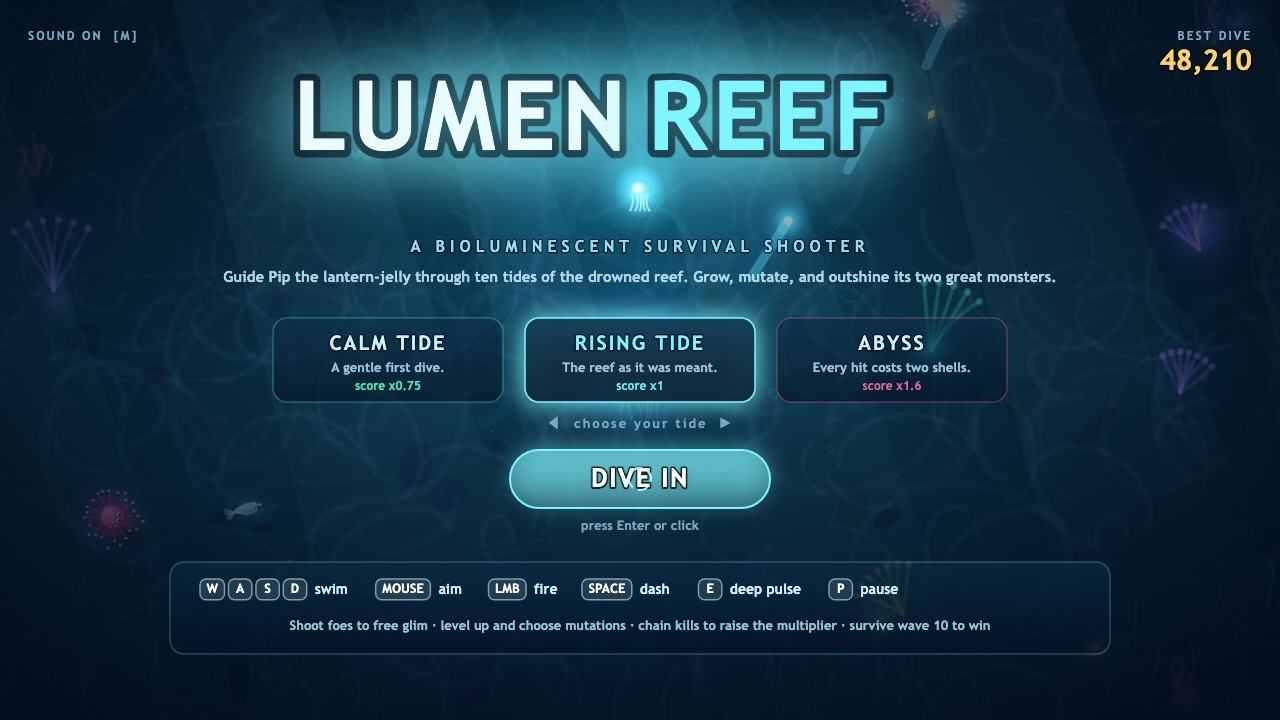
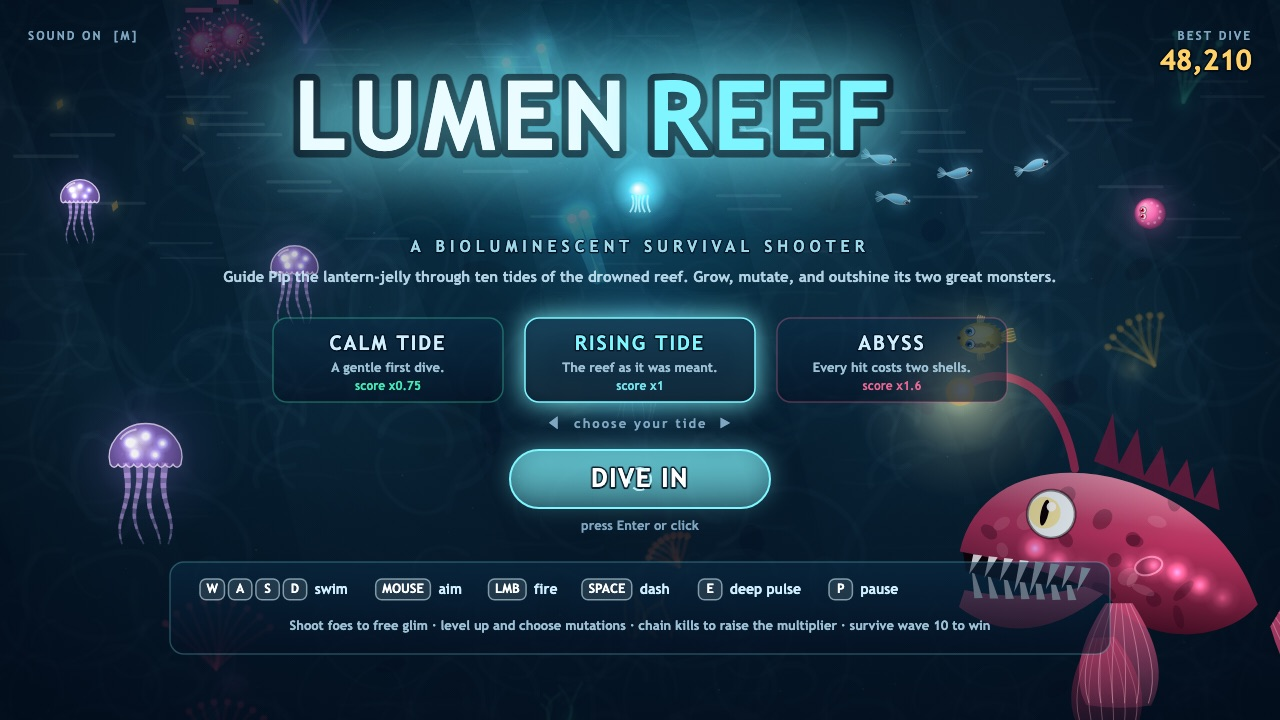
Title art from the creature renderer, busier attract dive, perfect-dodge stat, synergy cards in the mutation shot

diff --git a/game/src/ui/title-art.js b/game/src/ui/title-art.js
@@ -1,0 +1,35 @@
+// The title screen's living backdrop: the game's own creature renderer draws a great Undertow Maw
+// prowling the lower right, Broodbells drifting on the left and a school of Flickers crossing
+// above, all animated from the clock in screen space.
+
+import { drawEnemy } from '../render/creatures.js';
+import { ENEMY_KINDS } from '../game/enemies.js';
+import { BOSS_INFO } from '../game/bosses.js';
+
+function actor(id, kind, x, y, r, extra = {}) {
+  const k = ENEMY_KINDS[kind] ?? BOSS_INFO[kind];
+  return { id, kind, x, y, r, color: k.color, hp: 1, maxHp: 1, spawnT: 0, hitFlash: 0, elite: false, face: 0, vx: 0, vy: 0, t: 0, phase: 0, state: 'move', ...extra };
+}
+
+export function drawTitleArt(ctx, t) {
+  // School of Flickers sweeping across the top on a slow wave.
+  for (let i = 0; i < 9; i++) {
+    const span = 1700;
+    const x = ((t * 90 + i * 46 + (i % 3) * 30) % span) - 200;
+    const y = 120 + Math.sin(x * 0.006 + i * 0.4) * 40 + (i % 3) * 22;
+    const vy = Math.cos(x * 0.006 + i * 0.4) * 40 * 0.54;
+    drawEnemy(ctx, actor(`title-f${i}`, 'flicker', x, y, 9, { vx: 90, vy, face: Math.atan2(vy, 90), phase: i }), t);
+  }
+  // Broodbells drifting upward on the left.
+  const bells = [[150, 470, 34, 0], [300, 250, 22, 2.1], [70, 200, 18, 4.2]];
+  for (const [bx, by, r, ph] of bells) {
+    const y = by + Math.sin(t * 0.6 + ph) * 18;
+    drawEnemy(ctx, actor(`title-b${ph}`, 'broodbell', bx + Math.sin(t * 0.4 + ph) * 10, y, r, { vx: 0, vy: -20, phase: ph }), t);
+  }
+  // The Maw, huge, prowling at the lower right with its lure lit.
+  const mx = 1105 + Math.sin(t * 0.35) * 25, my = 585 + Math.sin(t * 0.5) * 14;
+  drawEnemy(ctx, actor('title-maw', 'maw', mx, my, 120, { boss: 'maw', face: Math.PI + 0.12 + Math.sin(t * 0.35) * 0.05, state: 'drift', lureGlow: 0.4 + 0.3 * Math.sin(t * 2) }), t);
+  // A Spinewhorl and a Blowfin keep their distance on the right.
+  drawEnemy(ctx, actor('title-w', 'whorl', 1150, 210 + Math.sin(t) * 8, 20, { vx: -10, phase: 1 }), t);
+  drawEnemy(ctx, actor('title-p', 'blowfin', 980, 330 + Math.sin(t * 0.8) * 10, 18, { vx: -30, face: Math.PI }), t);
+}

diff --git a/game/src/game/autopilot.js b/game/src/game/autopilot.js
@@ -3,7 +3,9 @@
 // mode and stages the screenshot scenes, using the same controls a player has.
 
 import { WORLD } from '../config.js';
-import { MUTATIONS } from './upgrades.js';
+import { MUTATIONS, applyMutation } from './upgrades.js';
+import { createRun } from './state.js';
+import { startWave } from './waves.js';
 
 export function autopilot(run) {
   const p = run.player;
@@ -60,4 +62,12 @@ export function autopilotChoice(run, choices) {
   const pref = ['split', 'quick', 'dense', 'pearls', 'static', 'needle', 'seeker', 'ricochet', 'bell', 'nova', 'ward'];
   const sorted = [...choices].sort((a, b) => (pref.indexOf(a) + 99) % 99 - (pref.indexOf(b) + 99) % 99);
   return sorted[0] ?? MUTATIONS[0].id;
+}
+
+// The dive that plays behind the title screen: a few waves in, already mutated, so the reef is busy.
+export function createAttractRun(seed) {
+  const run = createRun({ seed, difficulty: 'rising', demo: 'invincible' });
+  for (const id of ['split', 'quick', 'pearls', 'static']) applyMutation(run, id);
+  startWave(run, 4);
+  return run;
 }

diff --git a/game/src/main.js b/game/src/main.js
@@ -6,7 +6,7 @@ import { createInput } from './core/input.js';
 import { createAudio } from './core/audio.js';
 import { createRun } from './game/state.js';
 import { stepRun, followCamera } from './game/sim.js';
-import { autopilot, autopilotChoice } from './game/autopilot.js';
+import { autopilot, autopilotChoice, createAttractRun } from './game/autopilot.js';
 import { drawChoices, applyMutation } from './game/upgrades.js';
 import { releasePulse } from './game/player.js';
 import { buildReef } from './render/background.js';
@@ -37,7 +37,7 @@ const ui = {
   resultAge: 0,
 };
 
-let run = createRun({ seed: 4242, difficulty: 'rising', demo: true });
+let run = createAttractRun(4242);
 let clock = 0;
 
 function loadBest() {
@@ -59,7 +59,7 @@ function startDive() {
 }
 
 function toTitle() {
-  run = createRun({ seed: 4242 + Math.floor(clock), difficulty: 'rising', demo: true });
+  run = createAttractRun(4242 + Math.floor(clock));
   ui.mode = 'title';
 }
 

diff --git a/game/src/ui/title-screen.js b/game/src/ui/title-screen.js
@@ -5,6 +5,7 @@ import { VIEW, DIFFICULTY } from '../config.js';
 import { formatScore } from '../core/math.js';
 import { text, panel, button, keycap } from './widgets.js';
 import { drawGlow, withAlpha } from '../render/glow.js';
+import { drawTitleArt } from './title-art.js';
 
 export const DIFF_ORDER = ['calm', 'rising', 'abyss'];
 
@@ -15,6 +16,13 @@ export function drawTitle(ctx, ui, t) {
   g.addColorStop(0.5, 'rgba(2, 10, 24, 0.35)');
   g.addColorStop(1, 'rgba(2, 10, 24, 0.8)');
   ctx.fillStyle = g;
+  ctx.fillRect(0, 0, VIEW.w, VIEW.h);
+  drawTitleArt(ctx, t);
+  // Keep the menu legible over the creatures.
+  const veil = ctx.createRadialGradient(VIEW.w / 2, 380, 120, VIEW.w / 2, 380, 560);
+  veil.addColorStop(0, 'rgba(2, 10, 24, 0.55)');
+  veil.addColorStop(1, 'rgba(2, 10, 24, 0)');
+  ctx.fillStyle = veil;
   ctx.fillRect(0, 0, VIEW.w, VIEW.h);
 
   drawLogo(ctx, VIEW.w / 2, 168, t);

diff --git a/game/src/shots.js b/game/src/shots.js
@@ -8,7 +8,7 @@ import { createRun } from './game/state.js';
 import { stepRun, followCamera } from './game/sim.js';
 import { startWave } from './game/waves.js';
 import { spawnEnemy } from './game/enemies.js';
-import { autopilot, autopilotChoice } from './game/autopilot.js';
+import { autopilot, autopilotChoice, createAttractRun } from './game/autopilot.js';
 import { applyMutation, drawChoices } from './game/upgrades.js';
 
 function simulate(run, seconds, { autoPick = true } = {}) {
@@ -36,8 +36,8 @@ export function stageShot(name, ui) {
   const at = Number(params.get('t') ?? 0);
 
   if (name === 'title') {
-    const run = createRun({ seed: 4242 + seed, demo: 'invincible' });
-    simulate(run, at || 34);
+    const run = createAttractRun(4242 + seed);
+    simulate(run, at || 9);
     followCamera(run, 0, true);
     ui.mode = 'title';
     ui.best = 48210;

diff --git a/game/src/ui/results-screen.js b/game/src/ui/results-screen.js
@@ -53,7 +53,7 @@ export function drawResults(ctx, run, ui, t) {
     ['TIDE', won ? `${WAVES_TOTAL} / ${WAVES_TOTAL}` : `${run.wave.n} / ${WAVES_TOTAL}`],
     ['FOES', `${run.kills}`],
     ['BEST CHAIN', `${run.bestCombo}`],
-    ['LEVEL', `${run.level}`],
+    ['PERFECT DODGES', `${run.perfects ?? 0}`],
     ['TIME', formatTime(run.time)],
     ['BOSSES', `${run.bossesSlain} / 2`],
   ];
